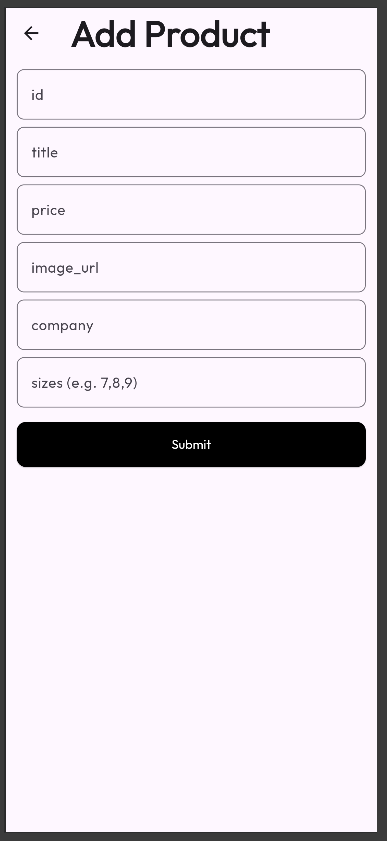
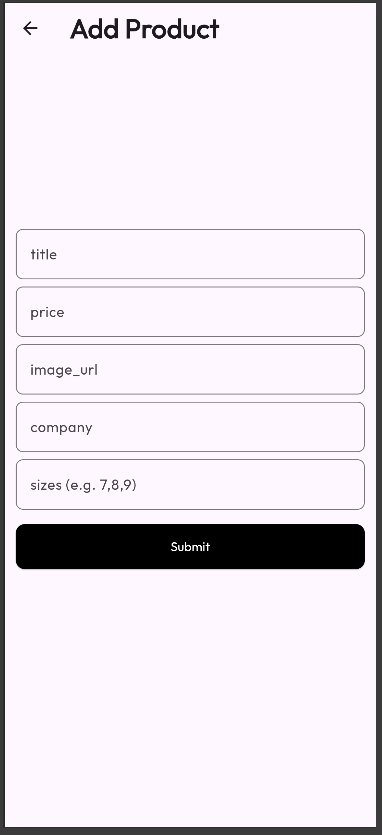
app 0.5

Changed region(s): [[0.0, 0.0, 1.0, 0.9964], [0.0864, 0.1557, 0.144, 0.1868], [0.0864, 0.0934, 0.1152, 0.1246]]

diff --git a/lib/screens/add_product.dart b/lib/screens/add_product.dart
@@ -80,32 +80,38 @@ class _AddProductState extends State<AddProduct> {
   @override
   Widget build(BuildContext context) {
     return Scaffold(
-      appBar: AppBar(title: const Text('Add Product')),
+      appBar: AppBar(title: const Text('Add Product', style: TextStyle(fontSize: 30),)),
       body: Padding(
         padding: const EdgeInsets.all(12),
-        child: ListView(
+        child: Column(
+          mainAxisAlignment: MainAxisAlignment.center,
           children: [
-            TextField(controller: idCtrl, decoration: _dec('id')),
-            const SizedBox(height: 8),
-            TextField(controller: titleCtrl, decoration: _dec('title')),
-            const SizedBox(height: 8),
-            TextField(controller: priceCtrl, decoration: _dec('price'), keyboardType: TextInputType.number),
-            const SizedBox(height: 8),
-            TextField(controller: imageCtrl, decoration: _dec('image_url')),
-            const SizedBox(height: 8),
-            TextField(controller: companyCtrl, decoration: _dec('company')),
-            const SizedBox(height: 8),
-            TextField(controller: sizesCtrl, decoration: _dec('sizes (e.g. 7,8,9)')),
-            const SizedBox(height: 16),
-            ElevatedButton(onPressed: _submit,
-             style: ElevatedButton.styleFrom(
-              backgroundColor: Colors.black,
-              fixedSize: Size(MediaQuery.of(context).size.width * 1, 50),
-              shape: RoundedRectangleBorder(
-                borderRadius: BorderRadius.circular(10)
-              )
-             ),
-             child: const Text('Submit', style: TextStyle(color: Colors.white),)),
+            SizedBox(height: MediaQuery.of(context).size.height*0.2),
+            Expanded(
+              child: ListView(
+                children: [
+                  TextField(controller: titleCtrl, decoration: _dec('title')),
+                  const SizedBox(height: 8),
+                  TextField(controller: priceCtrl, decoration: _dec('price'), keyboardType: TextInputType.number),
+                  const SizedBox(height: 8),
+                  TextField(controller: imageCtrl, decoration: _dec('image_url')),
+                  const SizedBox(height: 8),
+                  TextField(controller: companyCtrl, decoration: _dec('company')),
+                  const SizedBox(height: 8),
+                  TextField(controller: sizesCtrl, decoration: _dec('sizes (e.g. 7,8,9)')),
+                  const SizedBox(height: 16),
+                  ElevatedButton(onPressed: _submit,
+                   style: ElevatedButton.styleFrom(
+                    backgroundColor: Colors.black,
+                    fixedSize: Size(MediaQuery.of(context).size.width * 1, 50),
+                    shape: RoundedRectangleBorder(
+                      borderRadius: BorderRadius.circular(10)
+                    )
+                   ),
+                   child: const Text('Submit', style: TextStyle(color: Colors.white),)),
+                ],
+              ),
+            ),
           ],
         ),
       ),

diff --git a/README.md b/README.md
@@ -105,8 +105,6 @@ lib/
 
 ## 📸 Screenshots
 
-> Place your screenshots in the `screenshots/` folder organized by category, then they will display below.
-
 ### 🔐 Authentication Screens
 
 <p align="center">
@@ -125,7 +123,7 @@ lib/
   <img src="screenshots/home/product_grid.png" alt="Product Grid View" width="250"/>
 </p>
 
-*Product browsing with list/grid views, category filters, and search functionality.*
+*Product browsing with list/grid views*
 
 ---
 
@@ -135,7 +133,7 @@ lib/
   <img src="screenshots/cart/cart_view.png" alt="Shopping Cart" width="250"/>
 </p>
 
-*Shopping cart page with product list, swipe-to-delete gesture, and empty state.*
+*Shopping cart page with product list, swipe-to-delete gesture*
 
 ---
 
@@ -163,7 +161,7 @@ lib/
 
 <p align="center">
   <img src="screenshots/web/desktop_home.png" alt="Desktop Home" width="400"/>
-  <img src="screenshots/web/responsive_grid.png" alt="Responsive Grid" width="400"/>
+
 </p>
 
 *Responsive web layout with desktop navigation and adaptive grid view on larger screens.*
